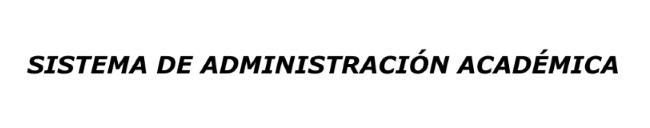
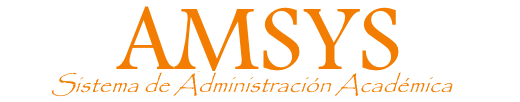
Pantalla Inicial 1.3
Incluir letra papyrus.

Changed region(s): [[0.0308, 0.0588, 0.9538, 0.9412], [0.1231, 0.7059, 0.1538, 0.7353]]

diff --git a/protected/views/layouts/main.php b/protected/views/layouts/main.php
@@ -49,14 +49,15 @@ $tempid = $temp->temp_id;
                 <div class="row">
 
                     <div class="span12">
-						<table width=100%>
-							<td>
+						<table width=100%  border="0" cellspacing="0" cellpadding="0">
+							<td width=10%></td>
+							<td width=20% align="right">
 								<img src="<?php echo Yii::app()->request->baseUrl; ?>/images/logo_colegio.png" >
 							</td>
-							<td>
+							<td width=70%>
 									<img src="<?php echo Yii::app()->request->baseUrl; ?>/images/baner.png" >
 							</td>
-						</table
+						</table>
                     </div>
                 </div>
                 </div> 
@@ -99,6 +100,8 @@ $tempid = $temp->temp_id;
                 }
                 ?>
             </div>
+			
+			
 
             <?php if (isset($this->breadcrumbs)): ?>
                 <?php
